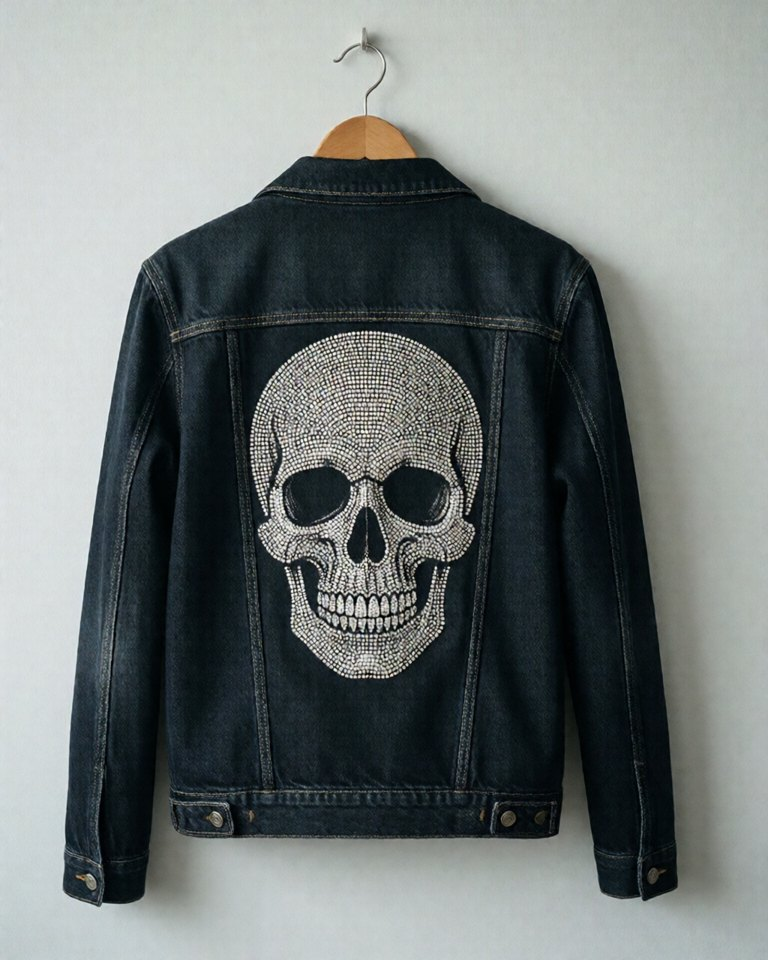
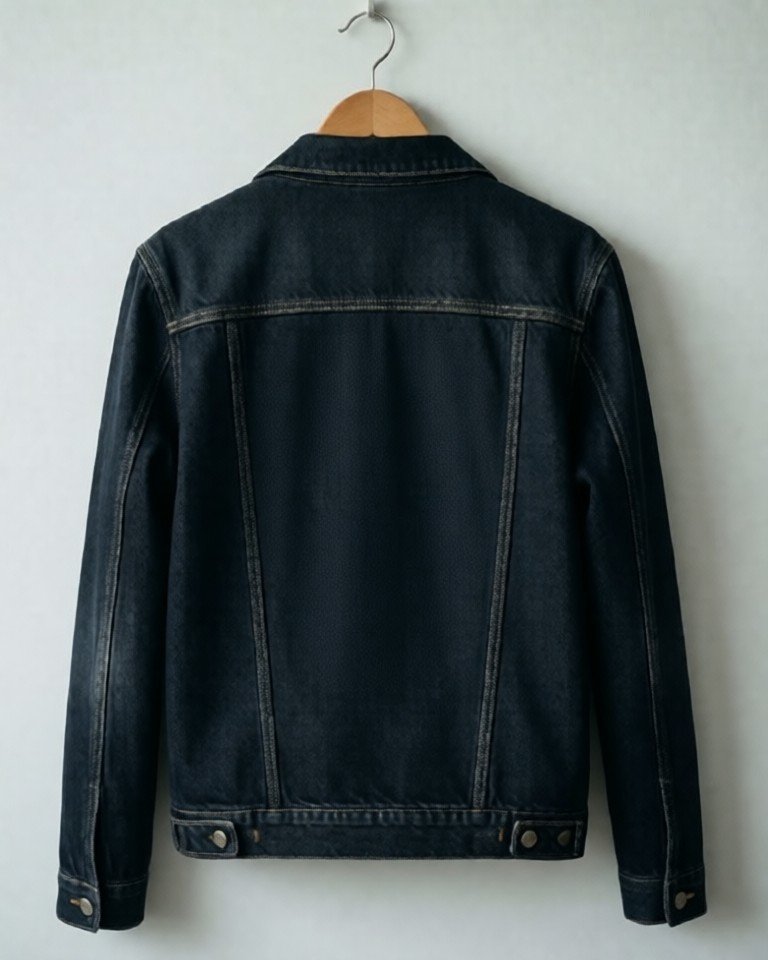
light-only UI (dark-mode browsers broke the store header); no skull: new jacket photo, demo re-recorded, test stores updated
- ui.css / pages.tsx: drop the dark palette, color-scheme light (Figma is light-only)
- fixtures/replay/store: photo-1 without the rhinestone skull (Qwen-Image-Edit), recording redone
- demo: posts without a product photo are painted with Qwen-Image 2512 (the edit model needs a photo);
  already-recorded pictures are kept, so a re-run fills only gaps
- store item photo URLs carry ?v= (Cloudflare caches public photos for a day)

Changed region(s): [[0.0625, 0.0, 1.0, 1.0]]

diff --git a/apps/worker/src/content-cli.ts b/apps/worker/src/content-cli.ts
@@ -32,15 +32,19 @@ const log = (m: string) => console.log(`[${((Date.now() - t0) / 1000).toFixed(1)
 const lab = parse(readFileSync(join(root, "config/image-lab.yaml"), "utf8")) as { variants: LabVariant[] };
 const variant = lab.variants.find((v) => v.id === (process.env.IMAGE_VARIANT ?? "qie2511-l4"))!;
 const comfy = process.env.RECORD_DIR && process.env.COMFY_API_KEY ? new ComfyCloud(process.env.COMFY_API_KEY) : null;
+// A post without a product photo is painted from text (the edit model needs a photo).
+const t2i = lab.variants.find((v) => v.id === "qi2512-l4")!;
 async function picture(prompt: string, photoIdx: number | null): Promise<Buffer | null> {
-  const key = createHash("sha256").update(`${variant.id}\n${prompt}\n${photoIdx ?? "-"}`).digest("hex").slice(0, 32);
+  const v = photoIdx === null && variant.needs_photo ? t2i : variant;
+  const key = createHash("sha256").update(`${v.id}\n${prompt}\n${photoIdx ?? "-"}`).digest("hex").slice(0, 32);
   const file = join(fixture, "images", `${key}.png`);
-  if (!comfy) return existsSync(file) ? readFileSync(file) : null;
-  const template = JSON.parse(readFileSync(join(root, "config/image-lab", variant.workflow), "utf8"));
+  if (existsSync(file)) return readFileSync(file);   // already recorded: keep it (lets a re-run fill only the gaps)
+  if (!comfy) return null;
+  const template = JSON.parse(readFileSync(join(root, "config/image-lab", v.workflow), "utf8"));
   const ref = photoIdx !== null ? await comfy.upload(photos[photoIdx]!, `demo-${photoIdx}.png`) : undefined;
   let png: Buffer | null = null;
-  for (const seed of [42, 43]) {   // a Comfy Cloud job sometimes ends in a non-retryable error: one more seed, then skip
-    try { png = Buffer.from(await comfy.run(fillWorkflow(template, { prompt, ref, seed, width: 1024, height: 1280, set: variant.set }))); break; }
+  for (const seed of [42, 43, 44, 45]) {   // a Comfy Cloud job sometimes ends in a non-retryable error: a few more seeds, then skip
+    try { png = Buffer.from(await comfy.run(fillWorkflow(template, { prompt, ref, seed, width: 1024, height: 1280, set: v.set }))); break; }
     catch (e) { log(`picture failed (seed ${seed}): ${(e as Error).message}`); }
   }
   if (!png) return null;

diff --git a/apps/gateway/src/main.ts b/apps/gateway/src/main.ts
@@ -259,7 +259,7 @@ const app = createApp({
     return {
       handle, name: b.name, account: `${handle}.${accounts.root}`, summary: prof?.summary ?? b.description,
       orders: (await store.listOrders(handle, 500)).filter((o) => ["paid", "in_progress", "delivered", "released"].includes(o.state)).length,
-      items: items.map((i) => ({ id: i.id, title: i.title, description: i.description, price: fmt(i.priceUnits), kind: i.kind, options: i.options as string[], img: i.photoMediaId ? `/files/${handle}/public/item-${i.id}.jpg` : null })),
+      items: items.map((i) => ({ id: i.id, title: i.title, description: i.description, price: fmt(i.priceUnits), kind: i.kind, options: i.options as string[], img: i.photoMediaId ? `/files/${handle}/public/item-${i.id}.jpg?v=${createHash("sha256").update(`${i.photoMediaId}|${i.title}`).digest("hex").slice(0, 8)}` : null })),
       posts: posts.map((p) => ({ caption: p.caption ?? "", img: (p.idea as { publicImage?: string }).publicImage ? `/files/${(p.idea as { publicImage: string }).publicImage}` : null, video: (p.idea as { publicVideo?: string }).publicVideo ? `/files/${(p.idea as { publicVideo: string }).publicVideo}?v=${((p.idea as { video?: { mediaId?: string } }).video?.mediaId ?? "").slice(-8)}` : null, proofId: (p.proof as { proofId?: string } | null)?.proofId ?? null })),
     };
   } } : {}),

diff --git a/apps/gateway/web/ui.css b/apps/gateway/web/ui.css
@@ -9,14 +9,7 @@
   --r-card: 16px; --r-lg: 20px; --r-btn: 999px; --r-input: 12px;
   --font: Inter, -apple-system, BlinkMacSystemFont, "Segoe UI", Roboto, sans-serif;
   --shadow: 0 8px 24px rgba(0,0,0,.12);
-  color-scheme: light dark;
-}
-@media (prefers-color-scheme: dark) {
-  :root {
-    --accent: #0a84ff; --accent-soft: #0f2950; --label: #f5f5f7; --label-2: #a1a1a6; --label-3: #6e6e73;
-    --bg: #000; --bg-2: #161617; --grouped: #1c1c1e; --track: #38383a; --sep: #38383a;
-    --ok-text: #30d158; --proof: #33d999; --proof-soft: #0a3324;
-  }
+  color-scheme: light;   /* Figma is light-only: dark-mode browsers get the same design */
 }
 * { box-sizing: border-box; }
 html, body { margin: 0; background: var(--bg); color: var(--label); font-family: var(--font); -webkit-font-smoothing: antialiased; }

diff --git a/apps/gateway/src/pages.tsx b/apps/gateway/src/pages.tsx
@@ -158,7 +158,6 @@ export const NotFoundPage: FC<{ testToken: boolean }> = ({ testToken }) => (
 
 export const SITE_CSS = `
 :root { --bg:#fbfaf7; --fg:#1d1c1a; --muted:#6b6862; --line:#e6e2da; --accent:#1f6f5c; --warn:#fff3c4; }
-@media (prefers-color-scheme: dark) { :root { --bg:#151514; --fg:#ecebe7; --muted:#a19d95; --line:#2c2b28; --accent:#5cc4a6; --warn:#3a3214; } }
 * { box-sizing: border-box; }
 body { margin:0; background:var(--bg); color:var(--fg); font:16px/1.5 system-ui, -apple-system, Segoe UI, sans-serif; }
 main { max-width: 720px; margin: 0 auto; padding: 24px 16px 48px; }
